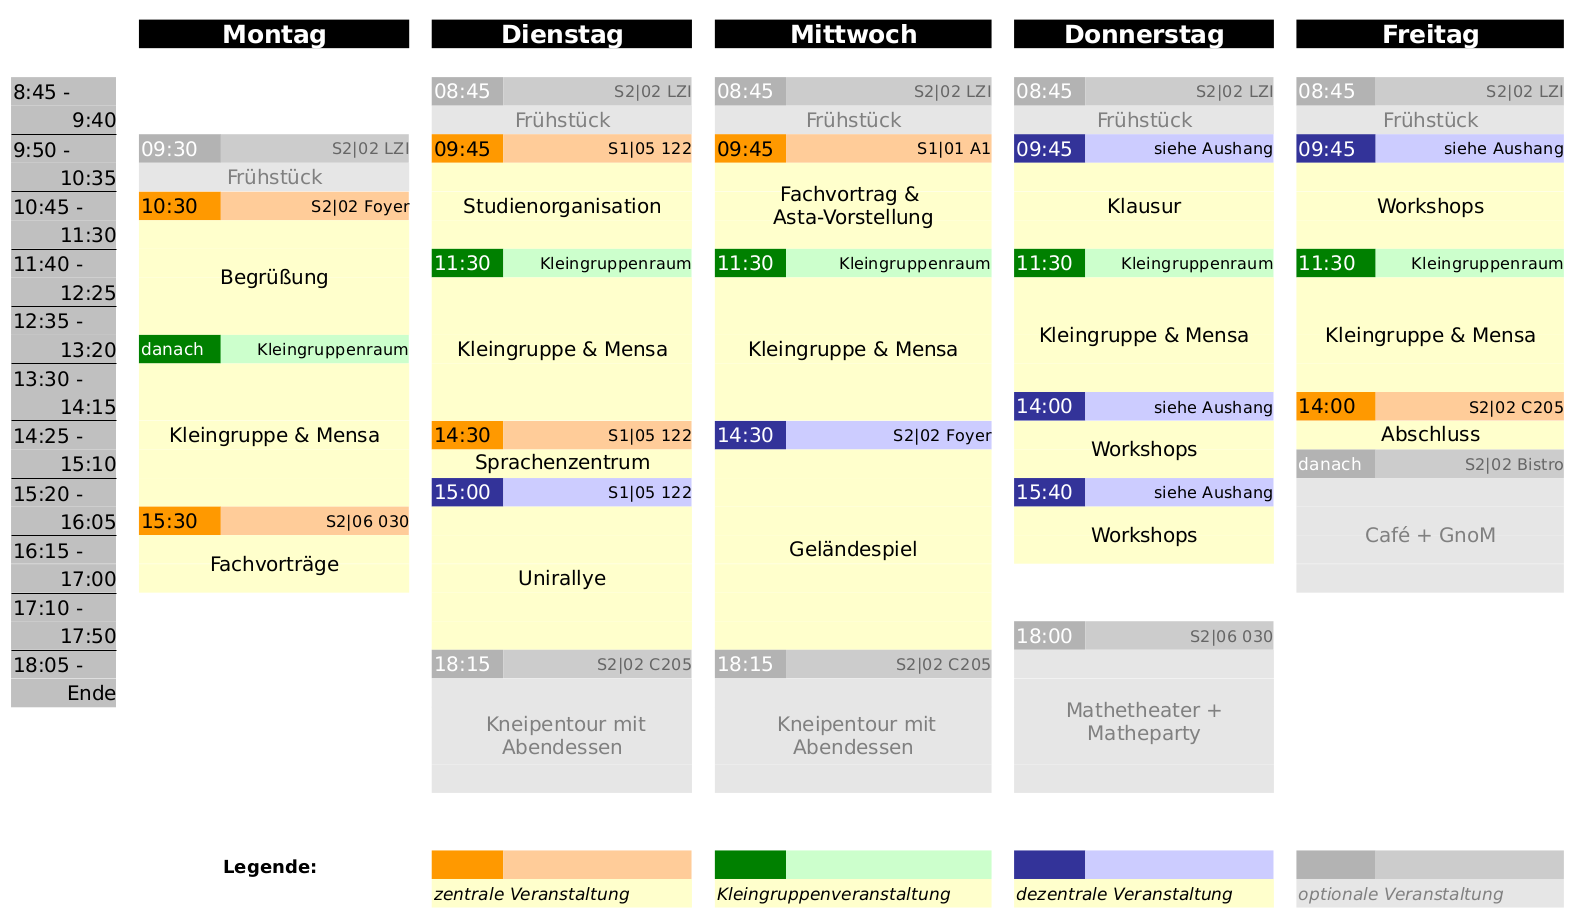
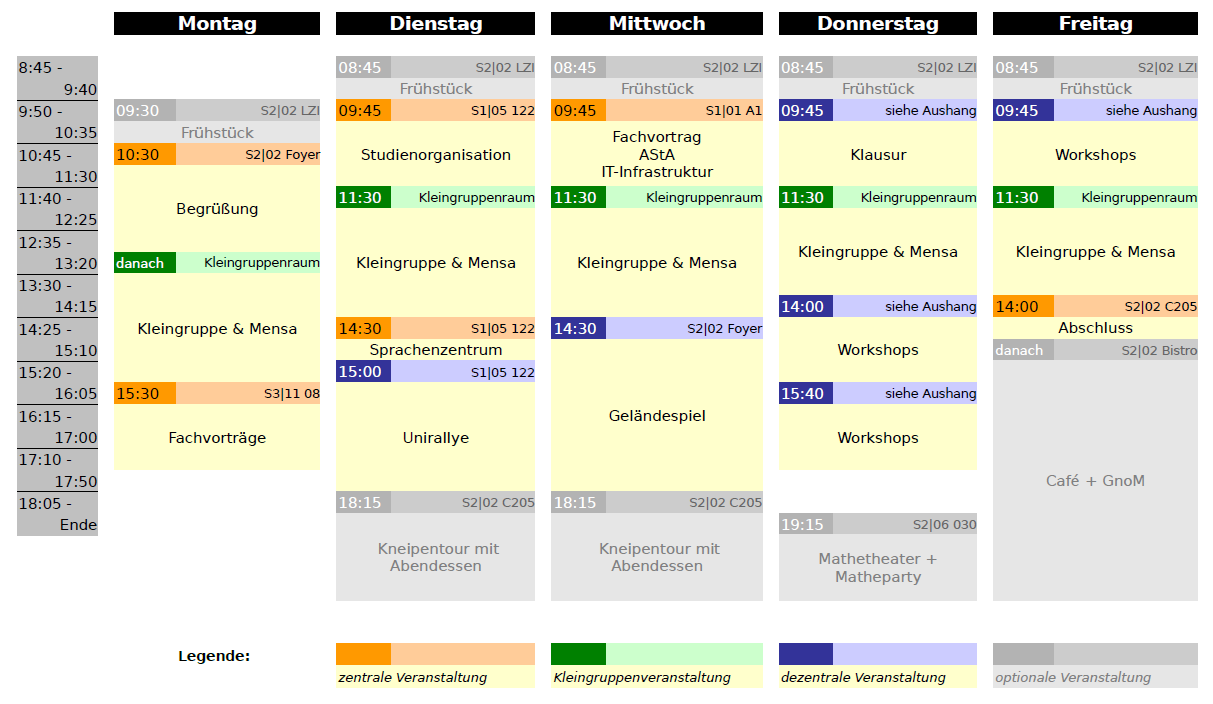
Adds latest version of bachelor schedule

diff --git a/website/templates/website/master-de.html b/website/templates/website/master-de.html
@@ -10,18 +10,34 @@
 </div>
 
 <h3>Inhalte und Stundenplan</h3>
-<p>Die Ophase beginnt mit der Begrüßung für alle Informatik Master-Studienanfänger*innen. Nach der Begrüßung teilen sich die Master-Erstsemester in mehrere Kleingruppen auf, in denen wichtige Dinge erklärt werden und Fragen beantwortet werden können. Themen sind etwa wie man einen Prüfungsplan erstellt, wie man seine Vorlesungen aussucht und alles andere, was ihr für den Start an der TU Darmstadt wissen müsst. Besonders wichtig ist auch der Vortrag der Studienberatung mit Informationen zur Prüfungsordnung, zu TUCaN und anderen relevanten Themen.</p>
+<p>
+    Die Ophase beginnt mit der Begrüßung für alle Informatik Master-Studienanfänger*innen. Nach der Begrüßung teilen
+    sich die Master-Erstsemester in mehrere Kleingruppen auf, in denen wichtige Dinge erklärt werden und Fragen
+    beantwortet werden können. Themen sind etwa wie man einen Prüfungsplan erstellt, wie man seine Vorlesungen aussucht
+    und alles andere, was ihr für den Start an der TU Darmstadt wissen müsst. Besonders wichtig ist auch der Vortrag der
+    Studienberatung mit Informationen zur Prüfungsordnung, zu TUCaN und anderen relevanten Themen.
+</p>
+<p>Dies ist der Stundenplan der Ophase (Stand 12.08.2016):</p>
 <img src="{% static 'website/stundenplan-master-de.png' %}" class="img-responsive" />
 
 <div style="padding-top: 1rem;"></div>
-<p>Gültig sind nur Zeit- und Raumangaben in diesem Stundenplan. Andere Angaben (zum Beispiel im uniweiten Raumbuchungssystem) haben keine Bedeutung.</p>
+<p>
+    Gültig sind nur Zeit- und Raumangaben in diesem Stundenplan. Andere Angaben (zum Beispiel im uniweiten
+    Raumbuchungssystem) haben keine Bedeutung.
+</p>
 
-
-<p>Die Master-Ophase ist für Master-Erstsemester gedacht, die von einer anderen Hochschule kommen. Die generellen Informationen auf der allgemeinen Ophasen-Seite gelten auch für die Master-Ophase: Prinzipiell bringen wir euch hier auch Darmstadt, die TU und das Studium am Fachbereich Informatik näher, da ihr aber schon ein Studium hinter euch habt, bieten wir euch einen angepassten Stundenplan mit mehr Raum für individuelle Fragen an.</p>
-<p>Der Termin mit der Studienberatung ist auch für Master-Erstsemester gedacht, die an der TU Darmstadt ihren Bachelor in Informatik gemacht haben.</p>
+<p>
+    Die Master-Ophase ist für Master-Erstsemester gedacht, die von einer anderen Hochschule kommen. Die generellen
+    Informationen auf der allgemeinen Ophasen-Seite gelten auch für die Master-Ophase: Prinzipiell bringen wir euch hier
+    auch Darmstadt, die TU und das Studium am Fachbereich Informatik näher, da ihr aber schon ein Studium hinter euch
+    habt, bieten wir euch einen angepassten Stundenplan mit mehr Raum für individuelle Fragen an.
+</p>
+<p>
+    Der Termin mit der Studienberatung ist auch für Master-Erstsemester gedacht, die an der TU Darmstadt ihren Bachelor
+    in Informatik gemacht haben.
+</p>
 
 <h3>Bin ich hier richtig?</h3>
-
 <p>Die Master-Ophase ist für diese Studiengänge an der TU Darmstadt gedacht:</p>
 <ul>
     <li>Master of Science Informatik</li>

diff --git a/website/templates/website/master-dss.html b/website/templates/website/master-dss.html
@@ -10,10 +10,23 @@
 </div>
 
 <h3>Content and Schedule</h3>
-<p>The Ophase starts with the welcome meeting for all new computer science students. After the welcome meeting, the students starting a Master's degree will gather into several groups. These groups provide the space for explaining different important topics and answering your questions. Topics are for example how to create an examination plan (Prüfungsplan) , how to select courses and anything else you need to know for a successful start at the TU Darmstadt. Especially important is the presentation from the student advisory service (Studienberatung) with information about examination regulations, TUCaN, and other relevant topics.</p>
+<p>
+    The Ophase starts with the welcome meeting for all new computer science students. After the welcome meeting, the
+    students starting a Master's degree will gather into several groups. These groups provide the space for explaining
+    different important topics and answering your questions. Topics are for example how to create an examination plan
+    (Prüfungsplan) , how to select courses and anything else you need to know for a successful start at the TU Darmstadt.
+    Especially important is the presentation from the student advisory service (Studienberatung) with information about
+    examination regulations, TUCaN, and other relevant topics.
+</p>
+<p>This is the Ophase schedule as of October 12th, 2016:</p>
 <img src="{% static 'website/stundenplan-master-dss.png' %}" class="img-responsive" />
 
-<p>The Master Ophase is aimed at students who come from another university. The information on the general page about the Ophase is also valid for the Master Ophase (but unfortunately only available in German): We show you Darmstadt, the TU Darmstadt and the Computer Science department, but since you already have completed a Bachelor's degree or the like, we offer you an adapted schedule with more room for individual questions.</p>
+<p>
+    The Master Ophase is aimed at students who come from another university. The information on the general page about
+    the Ophase is also valid for the Master Ophase (but unfortunately only available in German): We show you Darmstadt,
+    the TU Darmstadt and the Computer Science department, but since you already have completed a Bachelor's degree or
+    the like, we offer you an adapted schedule with more room for individual questions.
+</p>
 
 <h3>Am I In The Right Place?</h3>
 <p>The Master Ophase is meant for students from the following programmes at the TU Darmstadt:</p>

diff --git a/website/templates/website/bachelor.html b/website/templates/website/bachelor.html
@@ -9,11 +9,17 @@
     Du bist hier: <a href="{% url 'website:homepage' %}">Startseite</a> &middot; Bachelor
 </div>
 
-<p>Hier ist der Stundenplan für Bachelor-Erstsemester für die Ophase zum Wintersemester 2016 vom 10. bis 14. Oktober. Änderungen sind bis kurz vor Beginn der Ophase möglich. (Stand: 29.06.2016)</p>
+<p>
+    Hier ist der Stundenplan für Bachelor-Erstsemester für die Ophase zum Wintersemester 2016 vom 10. bis 14. Oktober.
+    Änderungen sind bis kurz vor Beginn der Ophase möglich. (Stand: 12.08.2016)
+</p>
 
 <img src="{% static 'website/stundenplan-bachelor.png' %}" class="img-responsive" />
 
 <div style="padding-top: 1rem;"></div>
-<p>Gültig sind nur Zeit- und Raumangaben in diesem Stundenplan. Andere Angaben (zum Beispiel im uniweiten Raumbuchungssystem) haben keine Bedeutung.</p>
+<p>
+    Gültig sind nur Zeit- und Raumangaben in diesem Stundenplan. Andere Angaben
+    (zum Beispiel im uniweiten Raumbuchungssystem) haben keine Bedeutung.
+</p>
 
 {% endblock %}
